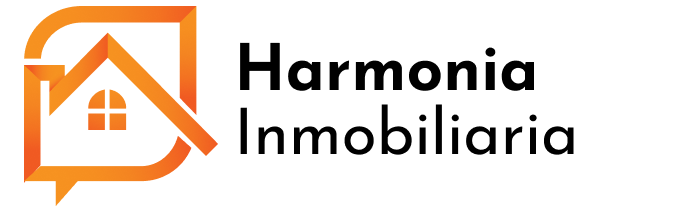
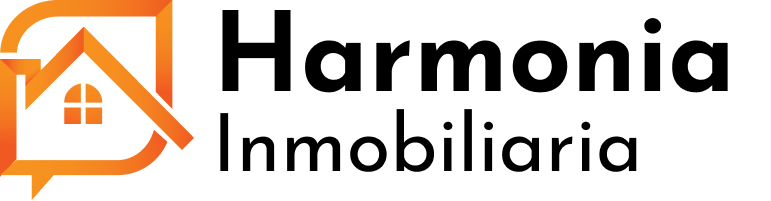
cambio en el tamaño de typografia de los png

diff --git a/application/views/plantilla/head.php b/application/views/plantilla/head.php
@@ -3,7 +3,7 @@
 <head>
 	<meta charset="UTF-8">
 	<meta name="viewport" content="width=device-width, initial-scale=1.0">
-	<title>Inmobiliaria ????????</title>
+	<title>Harmonia Inmobiliaria</title>
 
 
 	<link rel="stylesheet" href="<?php echo base_url(); ?>bootstrap/css/normalize">
@@ -23,7 +23,7 @@
 					<div class="text-center">
 						
 
-				  		<a class="navbar-brand " fla href="#"><img src="<?php echo base_url(); ?>bootstrap/img/Harmonia_Text_Black.png" alt="Harmonia Inmobiliaria" style="max-width: 200px; max-height: 70px;"></a>
+				  		<a class="navbar-brand " fla href="#"><img src="<?php echo base_url(); ?>bootstrap/img/Harmonia_Text_Black.png" alt="Harmonia Inmobiliaria" style="max-width: 250px; max-height: 60px;"></a>
 
 				  	</div>
 			  	</div>

diff --git a/application/views/plantilla/footer.php b/application/views/plantilla/footer.php
@@ -5,7 +5,7 @@
 
 					<div class="col-lg-4 col-sm-6">
 	                    <div class="single-footer-widget ps-3">
-	                        <a class="navbar-brand " fla href="#"><img src="<?php echo base_url(); ?>bootstrap/img/Harmonia_Text_White.png" alt="Harmonia Inmobiliaria" style="max-width: 200px; max-height: 70px;"></a>
+	                        <a class="navbar-brand " fla href="#"><img src="<?php echo base_url(); ?>bootstrap/img/Harmonia_Text_White.png" alt="Harmonia Inmobiliaria" style="max-width: 250px; max-height: 60px;"></a>
 	                        <p>Nuestras unidades destacadas de la semena, unidades recomendadas, habitables, comunable y acuntables</p>
 	                    </div>
 	                </div>

diff --git a/application/views/paginas/inicio.php b/application/views/paginas/inicio.php
@@ -111,7 +111,7 @@
 	</div>
 	
 	</div>
-
+</div>
 <div class="properties-area pt-5 pb-5">
 	<div class="container">
 
